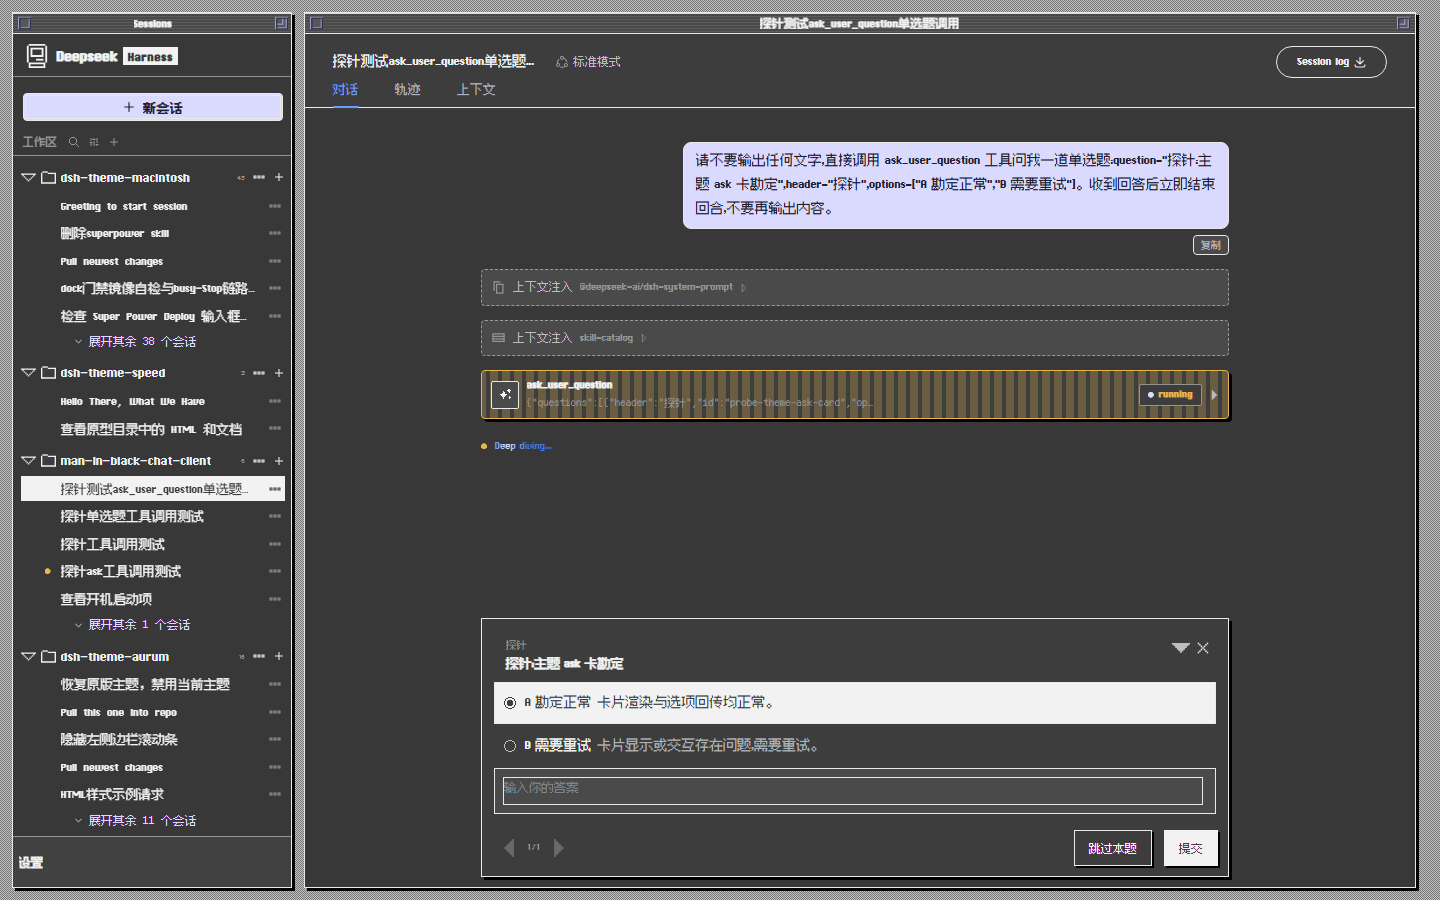
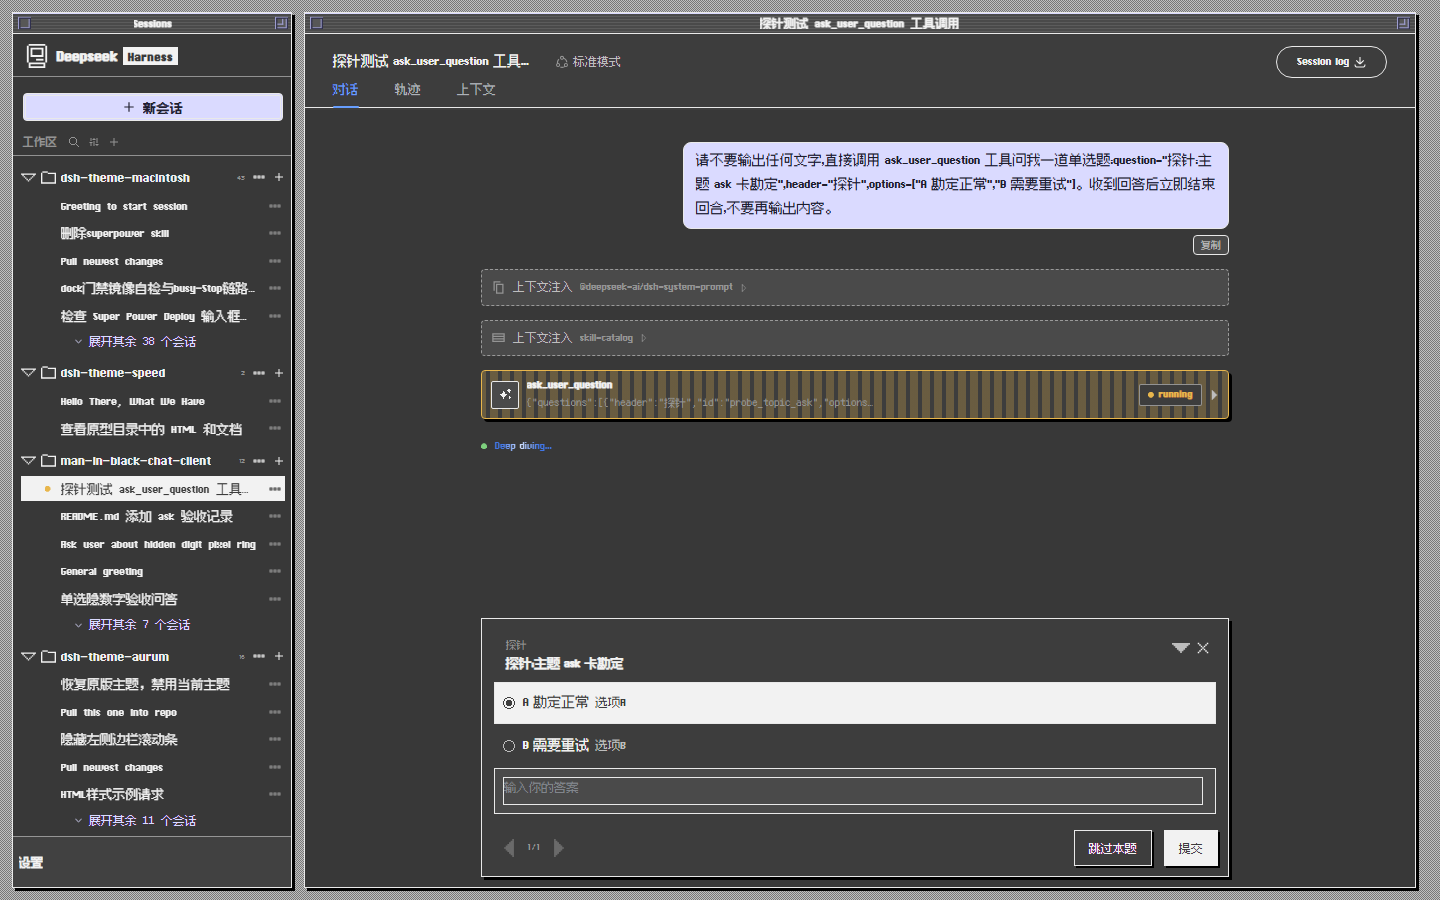
fix(mc-ask): 验收轮三修——①planCard 锚死勘误 ②选项行回归官方 flex 布局 ③askDetail 并 description
用户活体验收三疑点,probe-ask-diag1-4 四轮勘定:
①单选选项不可见=旧 client.js 逗号劈裂 CSS 第一支裸命中容器(radiogroup{display:none} 整组消失)
  ——:is() 修复已在档,刷新即愈;probe 实证新构建选项健在。
②多选复选框错位=绝对定位与官方 flex 布局打架+官方 _checkbox_::before 14px 框漏藏(双框叠影)。
  源码勘定:官方 option 本就 display:flex+align-items:flex-start(框件 margin-top 锚首行)——
  换皮顺势不逆势:环=行 ::before(flex:0 0 12px+margin-top:6px 对齐 24px 行高首线),勾=span 本体化
  (官方 ::before content:none+svg display:none)。kit 样本同步(rdo 修饰类区分环/勾)。
③plan 皮零命中=planCard 原锚 section[aria-label] 条件挂载(源码 aria-label=review.question,plan
  review 无 question 时 React 略属性)——改结构锚 [data-plan-review-key] section(frame 内唯一);
  顺带 askDetail 并 :is(detail,description)(选项行描述 Mbwy4a_description 同吃 md 小字 faint)。

新勘定:composer 访问模式菜单(仅可查看/可写入/完全权限)与 agent 预设下拉(标准/PTC/极简/创造/豆包
语音/猫娘/WebUIDesign)均非 plan 模式入口(diag3/4 实勘)——审批卡活体触发走用户通道,入口锚定留探。
verify-ask 26 断言回归 ALL GREEN;npm test 78 全绿+audit all green;勘误记因 dev-notes §12.5(3-7)。

diff --git a/src/conv/ask.js b/src/conv/ask.js
@@ -59,20 +59,22 @@ function mcAskCss(M) {
   L.push(M.askCard + ' ' + M.askFoldOn + '{-webkit-mask:' + mTri + ';mask:' + mTri + ';transform:rotate(90deg)}');
   L.push(M.askCard + ' ' + M.askFoldOff + '{-webkit-mask:' + mTri + ';mask:' + mTri + ';transform:none}');
   L.push(M.askCard + ' ' + M.askCancel + '{-webkit-mask:' + mPxX + ';mask:' + mPxX + ';color:var(--mc-fg)!important}');
-  // —— 选项行:role 语义锚;行内环/勾自绘,官方序号/勾件一律藏 ——
-  // 单选:隐数字(裁定项,活体复核备选=数字进方框)+ ::before 12px 环 mask;选中整行反色(fg 底 surface 字)
-  L.push(M.askCard + ' ' + M.askOpts + ' ' + M.askOptRdo + ',' + M.askCard + ' ' + M.askOpts + ' ' + M.askOptChk
-    + '{position:relative!important;padding-left:30px!important;text-align:left!important}');
+  // —— 选项行:role 语义锚;官方 option 本就 display:flex+align-items:flex-start(源码勘定
+  // 2026-09-03),框件 margin-top 锚首行——换皮不夺布局,环/勾做 flex 首子件(绝对定位与官方
+  // flex 打架+官方 ::before 14px 框漏藏出双框叠影,验收轮勘误,记因 dev-notes §12.5)——
+  // 单选:隐数字(裁定项,活体复核备选=数字进方框)+ ::before 12px 环 mask 占 number 位;选中整行反色
   L.push(M.askCard + ' ' + M.askOpts + ' ' + M.askNumber + '{display:none!important}');
-  L.push(M.askCard + ' ' + M.askOpts + ' ' + M.askOptRdo + '::before{content:\'\';position:absolute;left:9px;top:50%;width:12px;height:12px;'
-    + 'margin-top:-6px;background:currentColor;-webkit-mask:' + mRdo + ';mask:' + mRdo + ';color:var(--mc-muted)}');
+  L.push(M.askCard + ' ' + M.askOpts + ' ' + M.askOptRdo + '::before{content:\'\';flex:0 0 12px;width:12px;height:12px;'
+    + 'margin-top:6px;box-sizing:border-box;background:currentColor;-webkit-mask:' + mRdo + ';mask:' + mRdo + ';color:var(--mc-muted)}');
   L.push(M.askCard + ' ' + M.askOpts + ' ' + M.askOptRdo + M.askOptOn + '{background:var(--mc-fg)!important;color:var(--mc-surface)!important}');
   L.push(M.askCard + ' ' + M.askOpts + ' ' + M.askOptRdo + M.askOptOn + ' *{color:inherit!important}');
   L.push(M.askCard + ' ' + M.askOpts + ' ' + M.askOptRdo + M.askOptOn + '::before{color:var(--mc-surface);'
     + '-webkit-mask:' + mRdoOn + ';mask:' + mRdoOn + '}');
-  // 多选:官方勾 svg 藏,_checkbox_ span 化 12px 边框方框;选中整底 i-chk-on mask(边框+勾一体)
-  L.push(M.askCard + ' ' + M.askOpts + ' ' + M.askOptChk + ' ' + M.askCheckbox + '{position:absolute;left:9px;top:50%;width:12px;height:12px;'
-    + 'margin-top:-6px;box-sizing:border-box;border:1px solid currentColor;background:none;color:var(--mc-muted)}');
+  // 多选:官方勾 svg 与官方 ::before 14px 框一律藏,_checkbox_ span 本体化 12px 边框方框(flex 首行位);
+  // 选中整底 i-chk-on mask(边框+勾一体)
+  L.push(M.askCard + ' ' + M.askOpts + ' ' + M.askOptChk + ' ' + M.askCheckbox + '{flex:0 0 12px;width:12px;height:12px;'
+    + 'margin-top:6px;box-sizing:border-box;border:1px solid currentColor;background:none;color:var(--mc-muted);padding:0}');
+  L.push(M.askCard + ' ' + M.askOpts + ' ' + M.askOptChk + ' ' + M.askCheckbox + '::before{content:none!important}');
   L.push(M.askCard + ' ' + M.askOpts + ' ' + M.askOptChk + ' ' + M.askCheckbox + ' *{display:none!important}');
   L.push(M.askCard + ' ' + M.askOpts + ' ' + M.askOptChk + M.askOptOn + ' ' + M.askCheckbox + '{border:none;background:currentColor;color:var(--mc-surface);'
     + '-webkit-mask:' + mChkOn + ';mask:' + mChkOn + '}');

diff --git a/src/kit.js b/src/kit.js
@@ -43,13 +43,13 @@ const McKit = {
   background:var(--mc-surface);border:1px solid var(--mc-border);box-shadow:var(--mc-shadow-pop)}
 .kit-ask-cap{font:400 10.5px/1.4 var(--font-ui);color:var(--mc-faint)}
 .kit-ask-tt{margin:0;padding-right:44px;font:600 13px/1.4 var(--font-display);color:var(--mc-fg)}
-.kit-ask-opt{position:relative;display:block;width:100%;text-align:left;padding:6px 8px 6px 30px;border:none;
+.kit-ask-opt{display:flex;align-items:flex-start;gap:7px;width:100%;text-align:left;padding:4px 6px;border:none;
   background:none;cursor:pointer;font:400 12.5px/1.6 var(--font-ui);color:var(--mc-fg)}
-.kit-ask-opt::before{content:'';position:absolute;left:9px;top:50%;width:12px;height:12px;margin-top:-6px;
+.kit-ask-opt.rdo::before{content:'';flex:0 0 12px;width:12px;height:12px;margin-top:4px;box-sizing:border-box;
   background:currentColor;color:var(--mc-muted);-webkit-mask:${MC_KIT_ASK_MASK.rdo};mask:${MC_KIT_ASK_MASK.rdo}}
 .kit-ask-opt.on{background:var(--mc-fg);color:var(--mc-surface)}
-.kit-ask-opt.on::before{color:var(--mc-surface);-webkit-mask:${MC_KIT_ASK_MASK.rdoOn};mask:${MC_KIT_ASK_MASK.rdoOn}}
-.kit-ask-chk{position:absolute;left:9px;top:50%;width:12px;height:12px;margin-top:-6px;box-sizing:border-box;
+.kit-ask-opt.rdo.on::before{color:var(--mc-surface);-webkit-mask:${MC_KIT_ASK_MASK.rdoOn};mask:${MC_KIT_ASK_MASK.rdoOn}}
+.kit-ask-chk{flex:0 0 12px;width:12px;height:12px;margin-top:4px;box-sizing:border-box;
   border:1px solid var(--mc-muted);background:none}
 .kit-ask-opt.on .kit-ask-chk{border:none;background:currentColor;color:var(--mc-surface);
   -webkit-mask:${MC_KIT_ASK_MASK.chkOn};mask:${MC_KIT_ASK_MASK.chkOn}}
@@ -850,8 +850,8 @@ function McKitPage() {
                 h('div', { className: 'kit-ask-card' },
                   h('div', { className: 'kit-ask-cap' }, 'QUESTION'),
                   h('h4', { className: 'kit-ask-tt' }, '探针:主题 ask 卡勘定'),
-                  h('button', { type: 'button', className: 'kit-ask-opt on' }, 'A 勘定正常(推荐)'),
-                  h('button', { type: 'button', className: 'kit-ask-opt' }, 'B 需要重试'),
+                  h('button', { type: 'button', className: 'kit-ask-opt rdo on' }, 'A 勘定正常(推荐)'),
+                  h('button', { type: 'button', className: 'kit-ask-opt rdo' }, 'B 需要重试'),
                   h('button', { type: 'button', className: 'kit-ask-opt on' },
                     h('span', { className: 'kit-ask-chk', 'aria-hidden': 'true' }), '多选:回滚预案'),
                   h('button', { type: 'button', className: 'kit-ask-opt' },

diff --git a/src/chrome/map.js b/src/chrome/map.js
@@ -254,7 +254,7 @@ const MC_MAP = {
   askNumber:    '[class*="number"]',      // DRIFT-RISK(序号圆点;裁定项:单选隐数字,活体复核备选=数字进方框)
   askCheckbox:  '[class*="checkbox"]',    // DRIFT-RISK(多选方框 span;官方勾 svg 藏)
   askBadge:     '[class*="badge"]',       // DRIFT-RISK(推荐徽标)
-  askDetail:    '[class*="detail"]',      // DRIFT-RISK(题干补充 md)
+  askDetail:    ':is([class*="detail"], [class*="description"])', // DRIFT-RISK(题干补充 Mbwy4a_detail+选项行描述 Mbwy4a_description;:is() 复合中段纪律)
   askCustomRow: '[class*="customRow"]',   // DRIFT-RISK(自定义回答行)
   askField:     '[class*="field"]',       // DRIFT-RISK(自由输入场)
   askProgress:  '[class*="progress"]',    // DRIFT-RISK(「1 / 1」页码;实形 Mbwy4a_progress,DIAG 实证)
@@ -262,7 +262,7 @@ const MC_MAP = {
   btnOutline:   '[class*="_outline_"]',   // primitives Button(哈希构建 kz6gm,双侧下划线形态=源码 CSS-module 命名 _outline_kz6gm_56,与 Mbwy4a 族异构——此族交接档形态正确;dlgClose/uV2eYG 记因同源)
   btnPrimary:   '[class*="_primary_"]',
   planFrame:    '[data-plan-review-key]', // stable(审批卡 frame 根)
-  planCard:     '[data-plan-review-key] section[aria-label]', // stable 前缀+aria 语义锚
+  planCard:     '[data-plan-review-key] section', // 前缀 stable+结构锚(勘误 2026-09-03:原 section[aria-label] 条件挂载——源码 aria-label=review.question,plan review 无 question 时 React 略掉属性,锚全段死;frame 内 section 唯一,结构位足稳)
   planScroll:   '[data-plan-review-scroll]', // stable(审批卡正文滚动区)
   planStrip:    '[class*="strip"]',       // DRIFT-RISK(审批卡警示条;Mbwy4a 族勘误同 askEyebrow)
   planDot:      '[class*="dot"]',         // DRIFT-RISK(警示条圆点)
